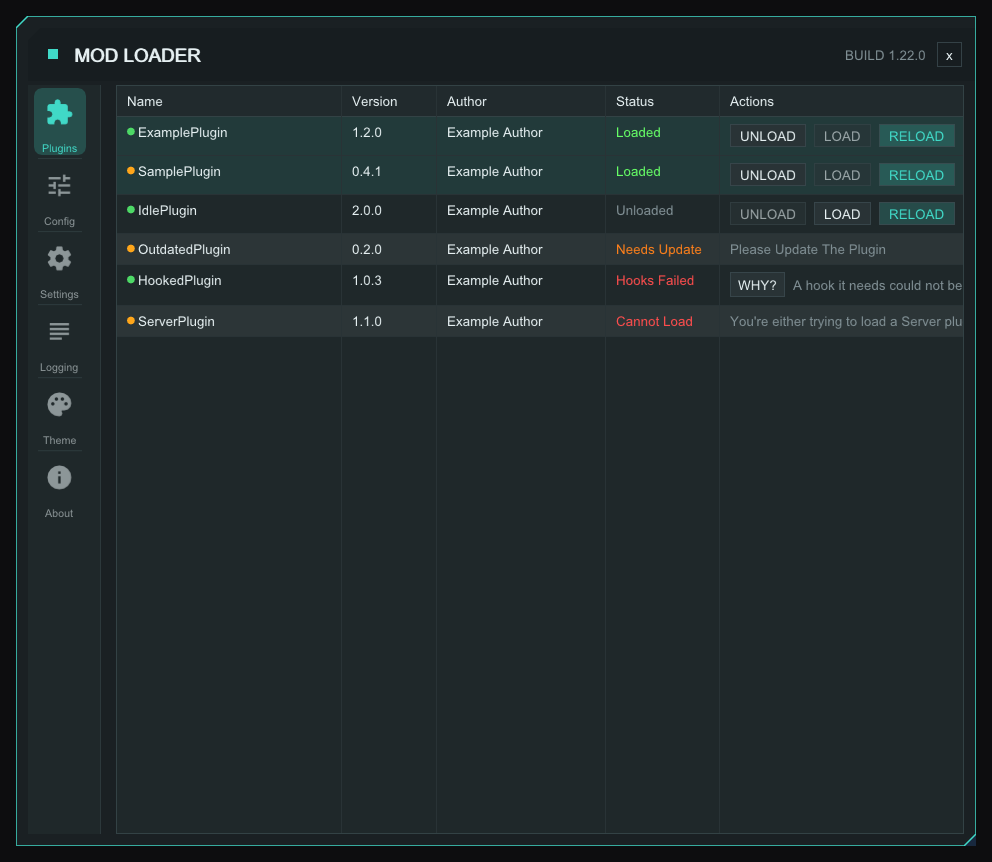
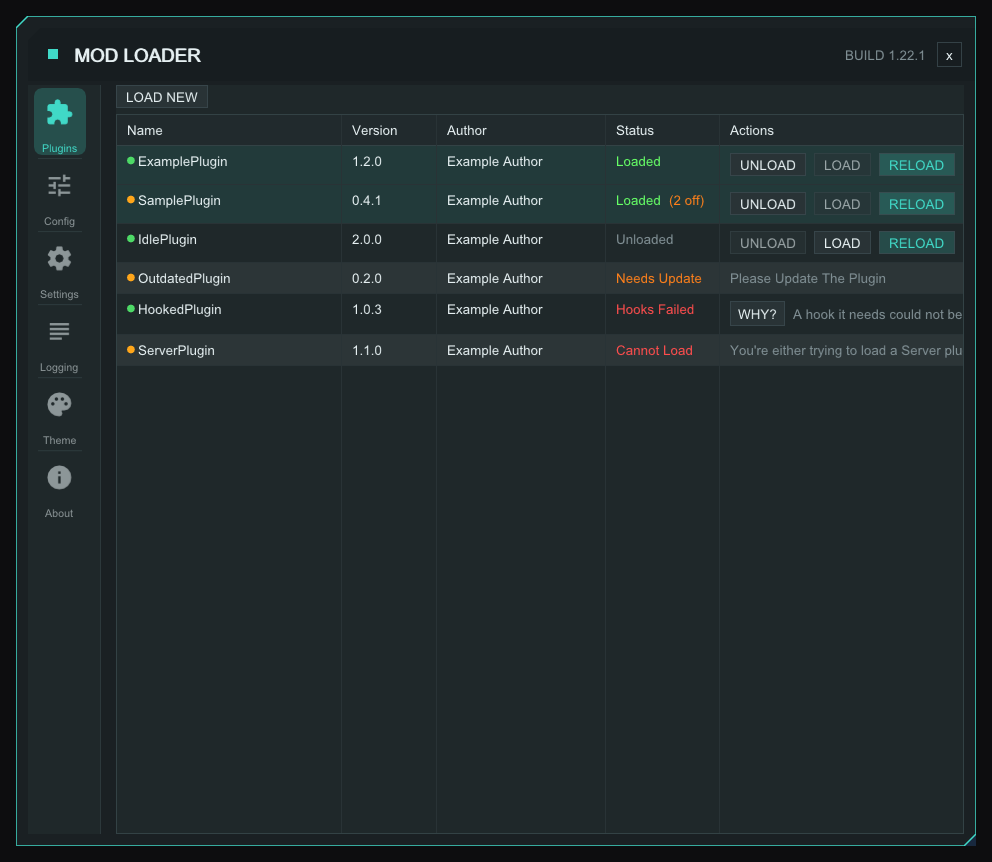
Update docs and screenshots for the current build
Brings README, UPDATE_NOTES and images in line with the current gss build.

diff --git a/README.md b/README.md
@@ -106,6 +106,9 @@ is available.
 
 - **LOAD NEW** picks up plugin DLLs added to the Plugins folder since the game started, and a
   popup lists each one with what to do next. <sup>[✦](#msantoro12)</sup>
+
+  <img src="images/popup-load-new.png" width="336" alt="The New Plugins pop-up listing each DLL LOAD NEW found with its result">
+
   - **Loaded** means nothing it registered for in PluginInit had already fired (save-loaded
     callbacks are not tracked). **Loaded late** registered for a world or experience start that had
     already fired; load a save to catch it up (the any-world start also re-fires on returning to
